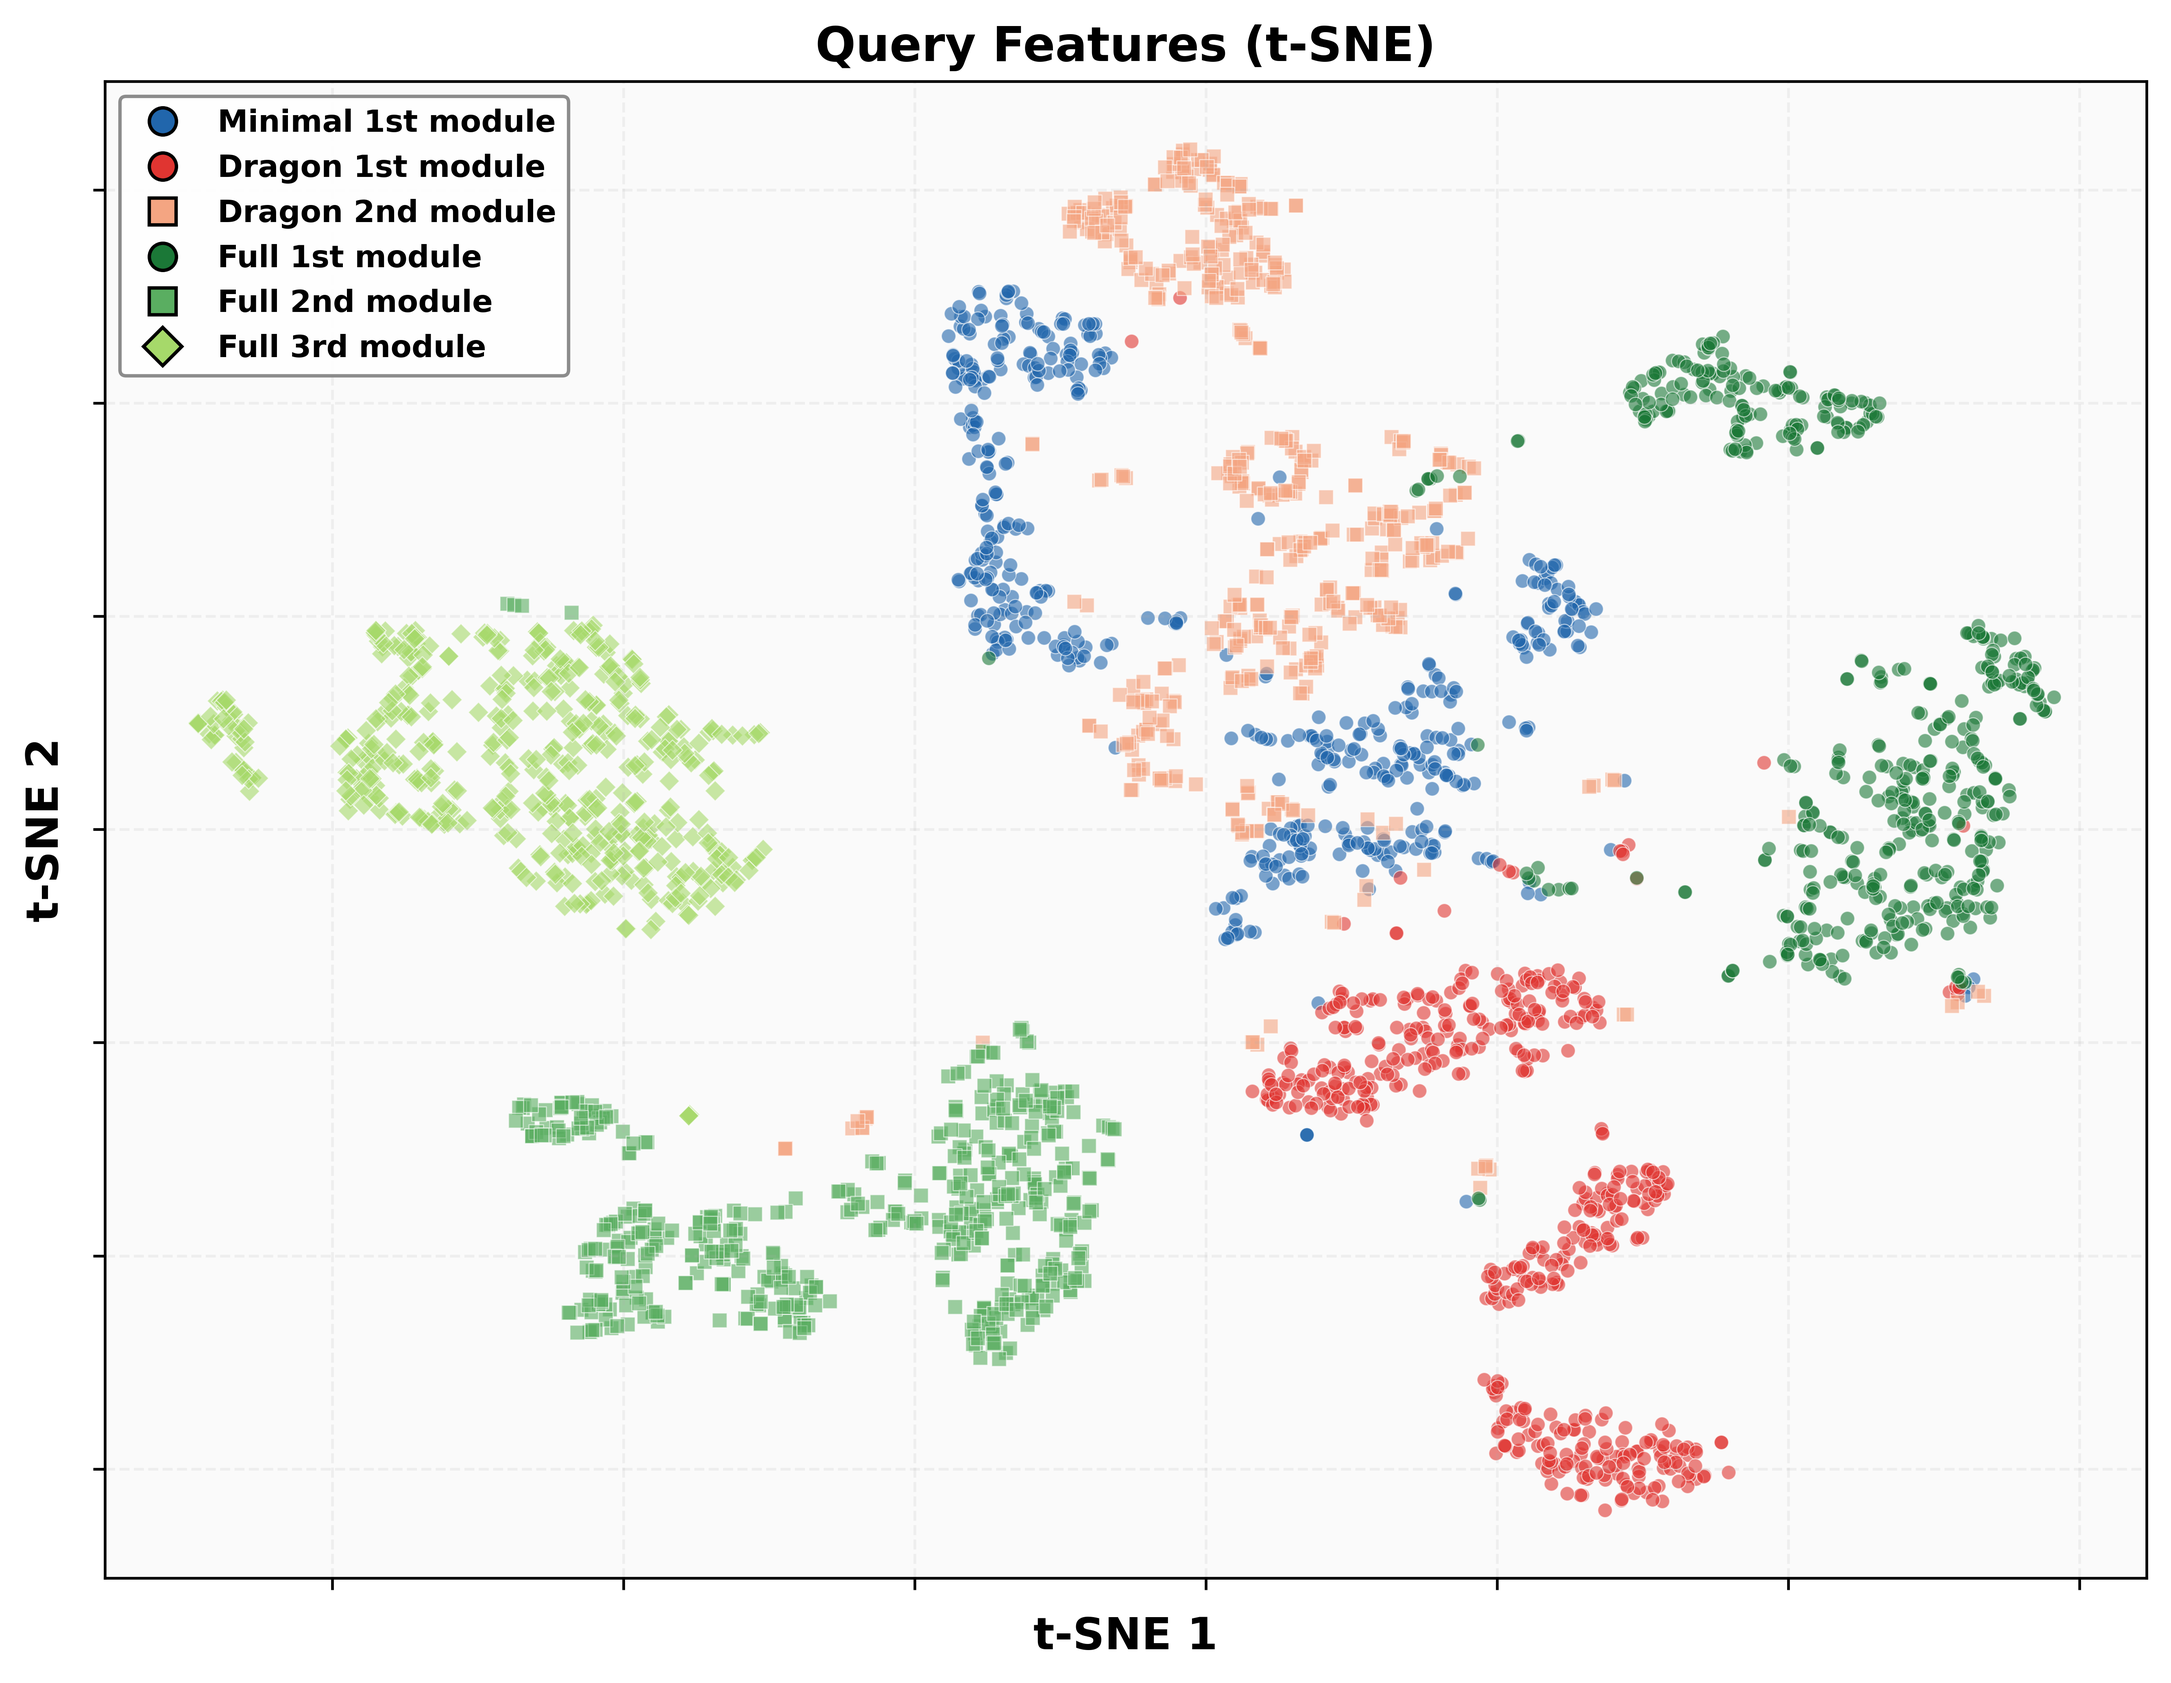
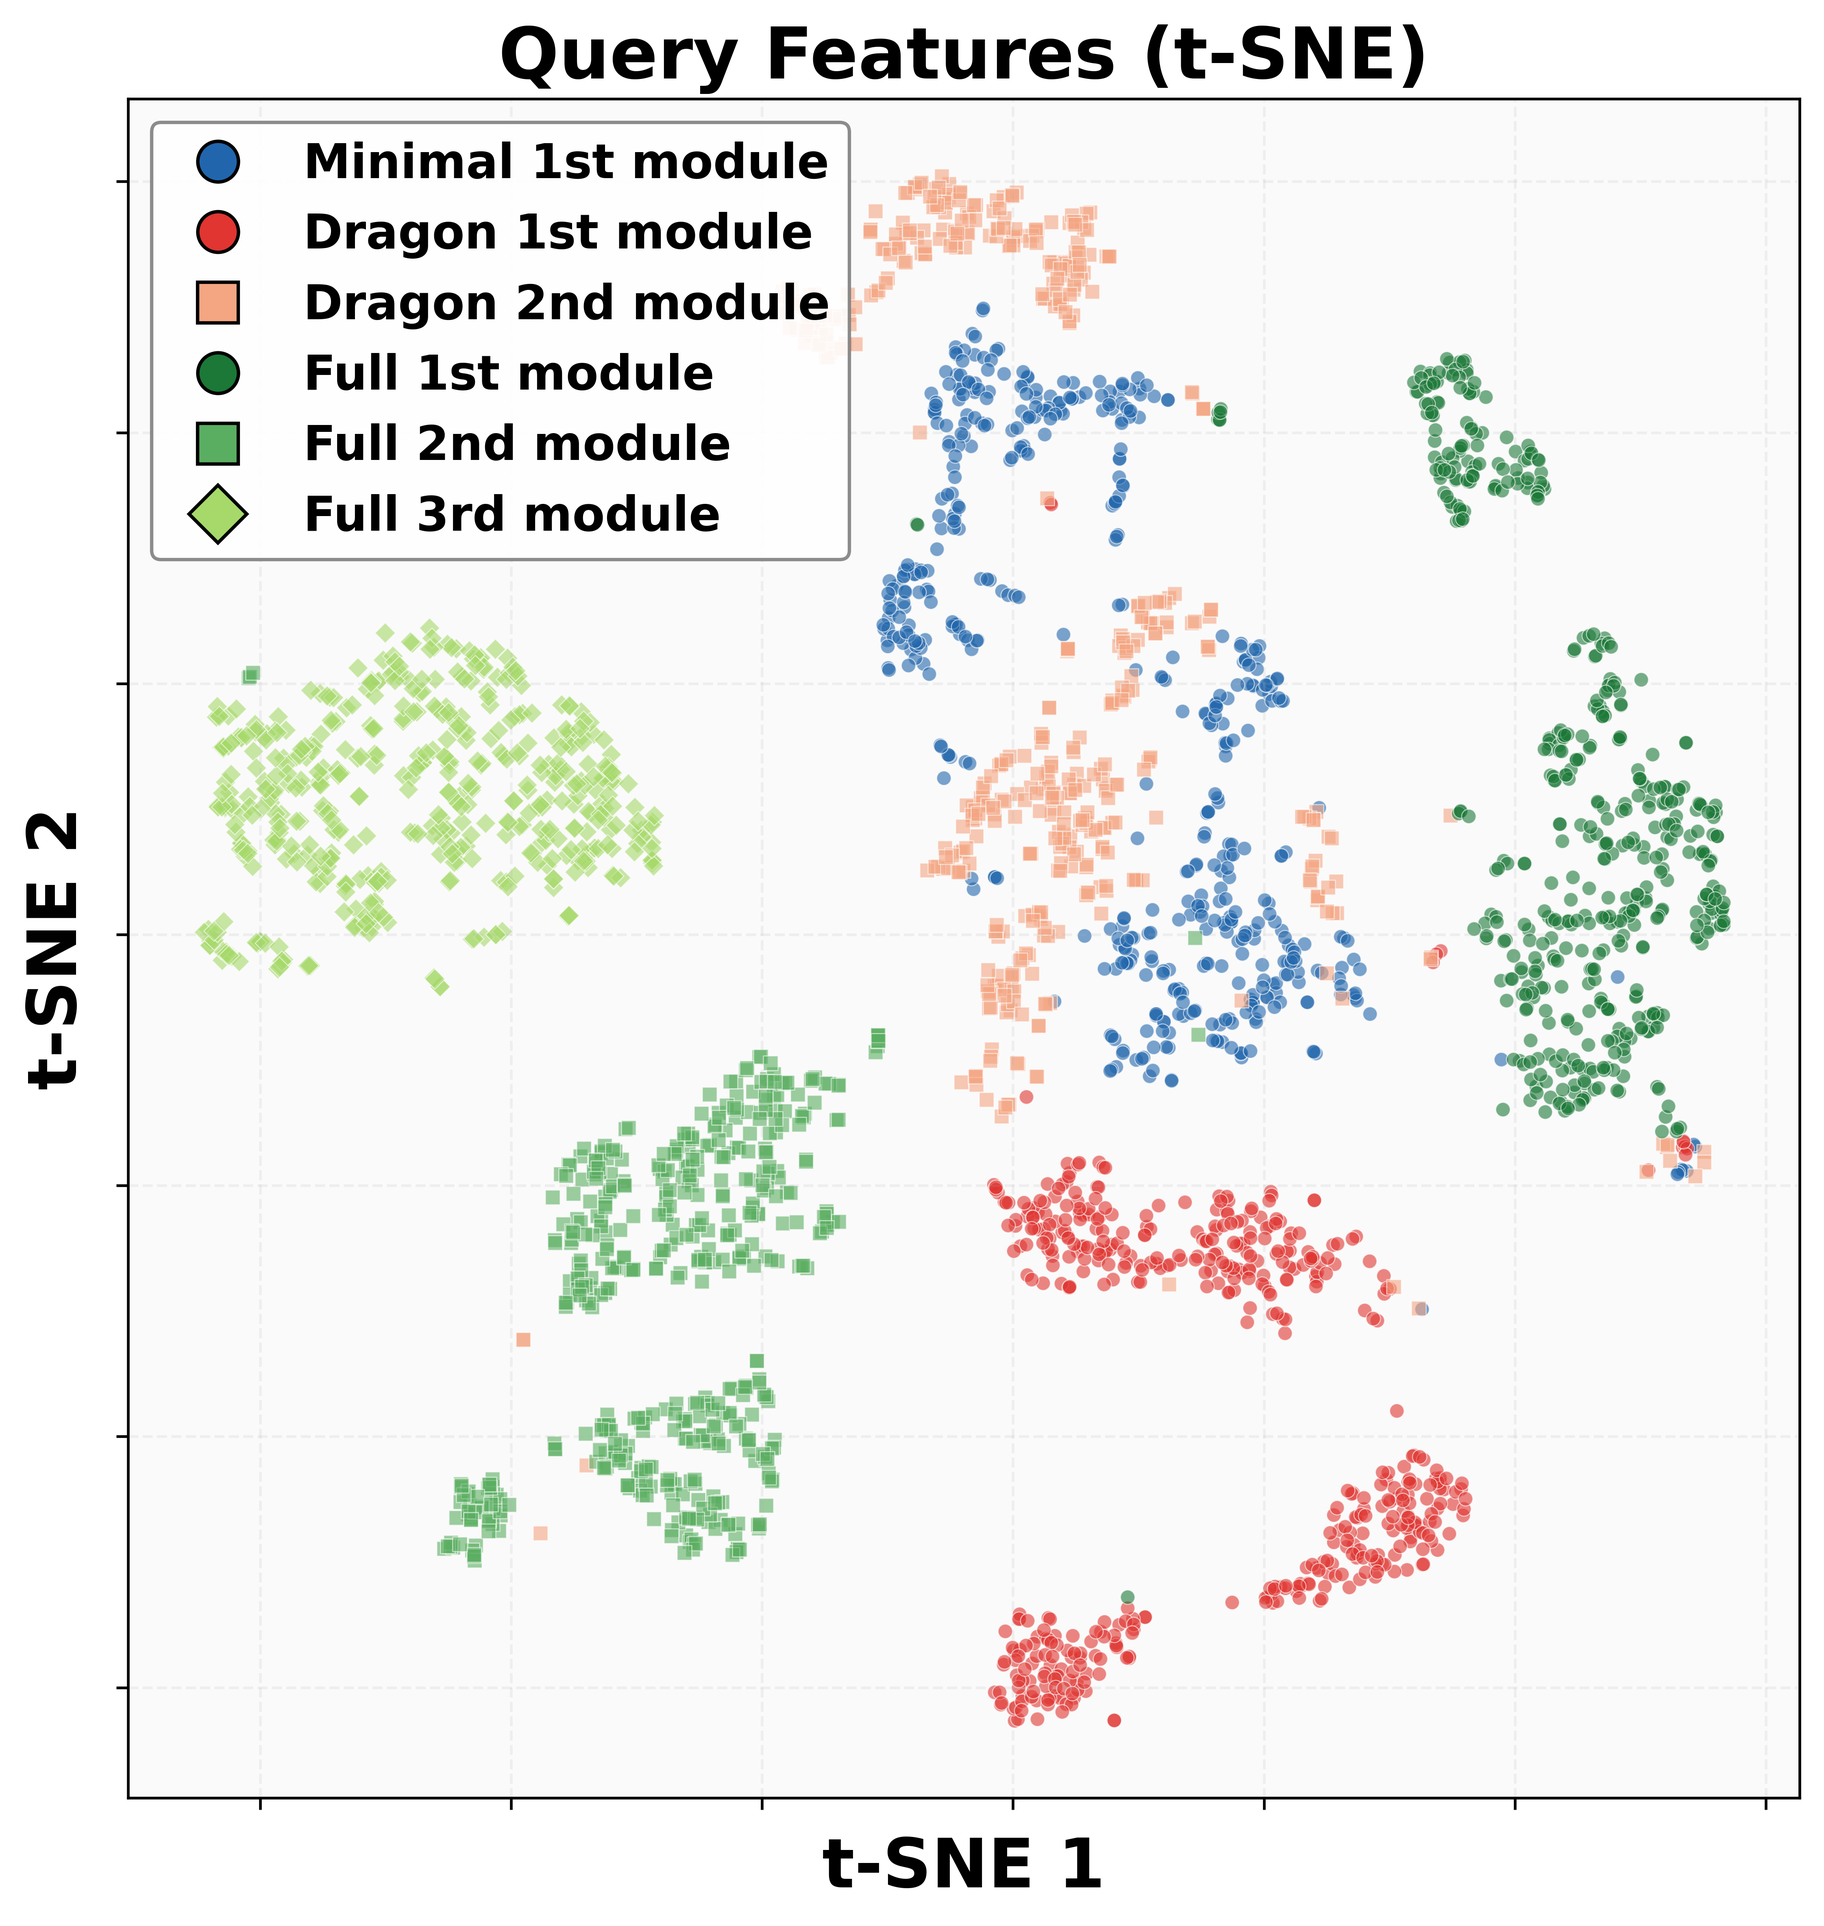
Upload img.

diff --git a/M2oE/scripts/play_key_query_pca.py b/M2oE/scripts/play_key_query_pca.py
@@ -218,8 +218,9 @@ def main():
     }
     module_markers = ["o", "s", "D", "^", "v", "P"]
 
-    fig, ax = plt.subplots(figsize=(9, 7))
+    fig, ax = plt.subplots(figsize=(8, 8))
     ax.set_facecolor("#FAFAFA")
+    ax.set_aspect("equal")
 
     # Scatter query points
     for (morph_idx, mod_idx), pts in query_proj.items():
@@ -251,25 +252,25 @@ def main():
             color="none",
             markerfacecolor=color,
             markeredgecolor="black",
-            markersize=8,
+            markersize=12,
             label=f"{morph_short_names[morph_idx]} {mod_idx+1}{num_suffix[mod_idx]} module",
         ))
 
     legend = ax.legend(
         handles=legend_handles,
         loc="best",
-        fontsize=9,
+        fontsize=14,
         framealpha=0.9,
         edgecolor="gray",
     )
     for text in legend.get_texts():
         text.set_fontweight("bold")
 
-    ax.set_xlabel("t-SNE 1", fontsize=13, fontweight="bold")
-    ax.set_ylabel("t-SNE 2", fontsize=13, fontweight="bold")
-    ax.set_title("Query Features (t-SNE)", fontsize=14, fontweight="bold")
+    ax.set_xlabel("t-SNE 1", fontsize=20, fontweight="bold")
+    ax.set_ylabel("t-SNE 2", fontsize=20, fontweight="bold")
+    ax.set_title("Query Features (t-SNE)", fontsize=21, fontweight="bold")
 
-    ax.tick_params(labelsize=11)
+    ax.tick_params(labelsize=16)
     for label in ax.get_xticklabels() + ax.get_yticklabels():
         label.set_fontweight("bold")
 
